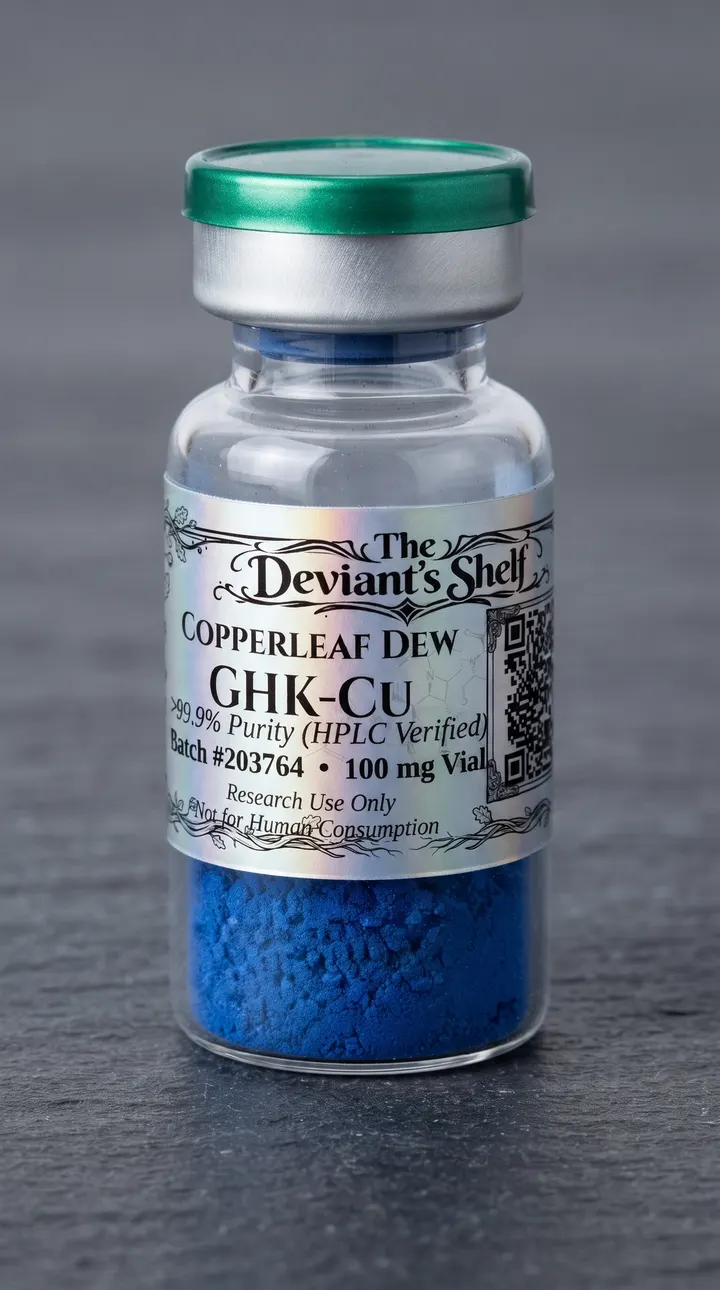
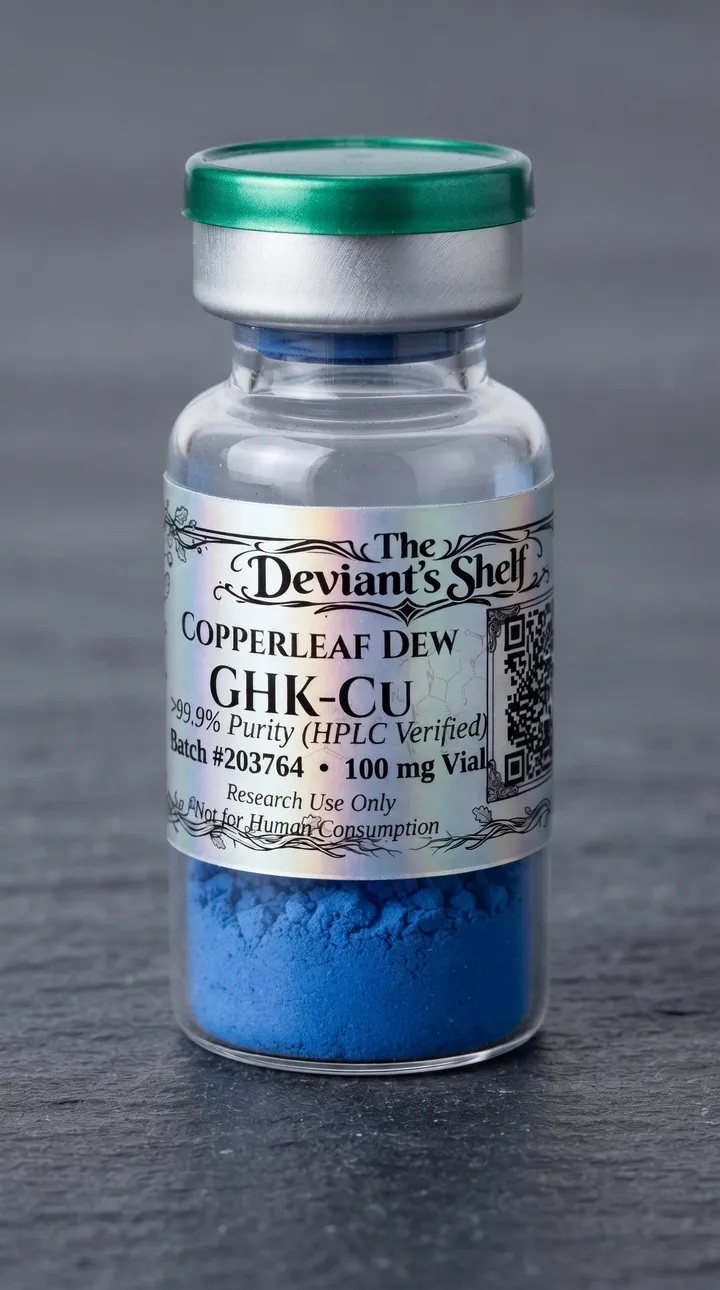
Swap the Copperleaf Dew vial photo.

diff --git a/src/shop.jsx b/src/shop.jsx
@@ -128,7 +128,7 @@ const VIAL_PHOTO = {
   "NAD-500": "/art/vials/NAD-500.webp",
   "PT-10": "/art/vials/PT-10.webp",
   "BAC-10": "/art/vials/BAC-10.webp",
-  "GHK-100": "/art/vials/GHK-100.webp",
+  "GHK-100": "/art/vials/GHK-100.webp?v=2",
   "KIT-1": "/art/vials/KIT-1.webp",
 };
 
